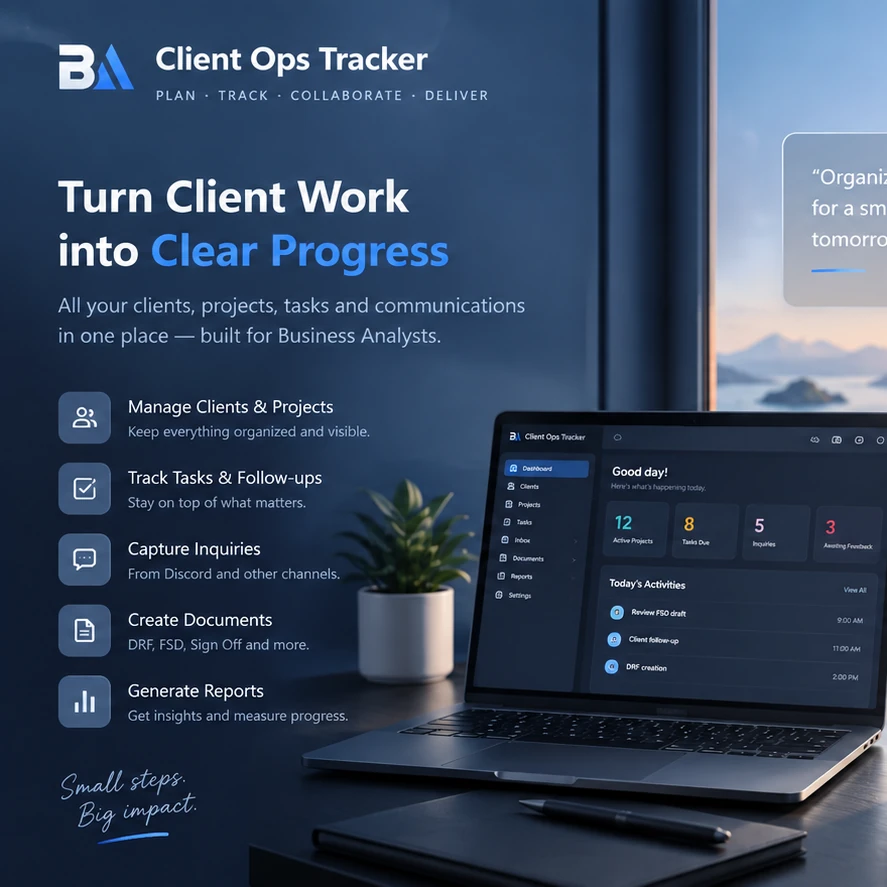
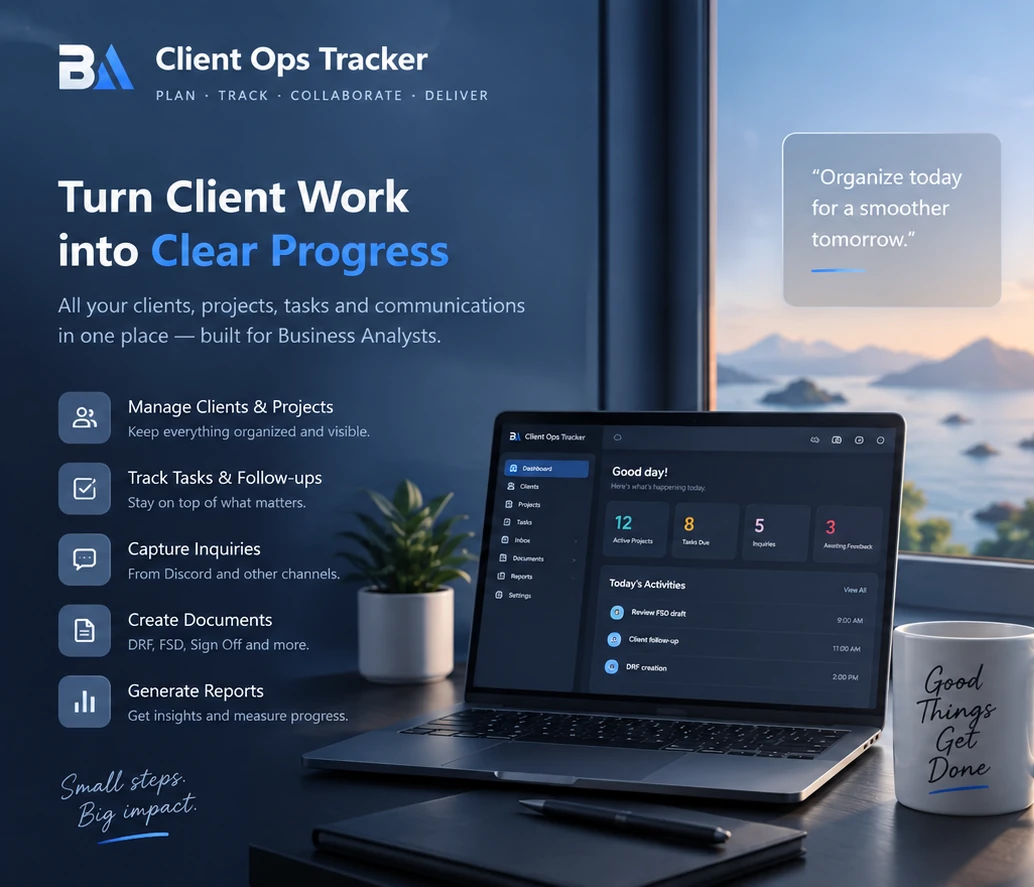
update

diff --git a/src/styles.css b/src/styles.css
@@ -1487,7 +1487,7 @@ select option { background: #181818; color: #fff; }
 .auth-shell-login {
   min-height: 100dvh;
   display: grid;
-  grid-template-columns: minmax(460px, 1.08fr) minmax(520px, .92fr);
+  grid-template-columns: 58.3% 41.7%;
   padding: 0;
   background: #f6f9ff;
   color: #12213a;
@@ -1504,7 +1504,7 @@ select option { background: #181818; color: #fff; }
   width: 100%;
   height: 100dvh;
   object-fit: cover;
-  object-position: center;
+  object-position: center center;
 }
 .auth-login-panel {
   position: relative;
@@ -1514,15 +1514,15 @@ select option { background: #181818; color: #fff; }
   flex-direction: column;
   align-items: center;
   justify-content: center;
-  padding: 54px clamp(32px, 5vw, 84px) 30px;
+  padding: 54px 48px 28px;
   background:
-    radial-gradient(circle at 78% 16%, rgba(96,165,250,.13), transparent 31%),
-    radial-gradient(circle at 16% 82%, rgba(147,197,253,.12), transparent 30%),
+    radial-gradient(circle at 76% 17%, rgba(96,165,250,.13), transparent 31%),
+    radial-gradient(circle at 20% 82%, rgba(147,197,253,.12), transparent 30%),
     linear-gradient(145deg, #fbfdff 0%, #f3f7fd 58%, #edf4fd 100%);
 }
 .auth-version {
   position: absolute;
-  top: 28px;
+  top: 27px;
   right: 38px;
   color: #8090ab;
   font-size: 11px;
@@ -1530,38 +1530,42 @@ select option { background: #181818; color: #fff; }
   letter-spacing: .03em;
 }
 .auth-card-modern {
-  width: min(540px, 100%);
-  padding: 34px 36px 30px;
+  width: min(570px, 100%);
+  padding: 31px 34px 30px;
   border: 1px solid rgba(148,163,184,.34);
   border-radius: 24px;
-  background: rgba(255,255,255,.90);
+  background: rgba(255,255,255,.92);
   color: #12213a;
   box-shadow: 0 28px 80px rgba(46,79,125,.13), 0 3px 12px rgba(46,79,125,.07);
   backdrop-filter: blur(18px) saturate(122%);
 }
 .auth-brand-modern {
+  display: flex;
+  flex-direction: column;
+  align-items: center;
   justify-content: center;
-  gap: 13px;
-  margin: 0 0 30px;
-  text-align: left;
+  gap: 11px;
+  margin: 0 0 27px;
+  text-align: center;
 }
 .auth-brand-modern .auth-app-icon {
-  width: 58px;
-  height: 58px;
+  width: 66px;
+  height: 66px;
   flex: 0 0 auto;
   object-fit: contain;
-  border-radius: 14px;
+  border-radius: 16px;
   box-shadow: 0 8px 22px rgba(24,73,135,.18);
 }
+.auth-brand-copy { display: grid; justify-items: center; gap: 3px; }
 .auth-brand-modern strong {
   color: #101d34;
-  font-size: 22px;
+  font-size: 24px;
   letter-spacing: -.025em;
+  line-height: 1.12;
 }
 .auth-brand-modern span {
-  margin-top: 3px;
   color: #6d7f9d;
-  font-size: 12px;
+  font-size: 13px;
 }
 .auth-form-modern { gap: 16px; }
 .auth-form-modern > label {
@@ -1570,7 +1574,7 @@ select option { background: #181818; color: #fff; }
   font-size: 11.5px;
 }
 .auth-input-shell {
-  min-height: 52px;
+  min-height: 54px;
   display: flex;
   align-items: center;
   gap: 11px;
@@ -1588,7 +1592,7 @@ select option { background: #181818; color: #fff; }
 }
 .auth-form-modern .auth-input-shell input {
   min-width: 0;
-  min-height: 50px;
+  min-height: 52px;
   flex: 1;
   padding: 0;
   border: 0;
@@ -1616,7 +1620,7 @@ select option { background: #181818; color: #fff; }
   justify-content: space-between;
   align-items: center;
   gap: 16px;
-  margin-top: -1px;
+  margin-top: 0;
 }
 .auth-remember {
   display: inline-flex !important;
@@ -1644,7 +1648,7 @@ select option { background: #181818; color: #fff; }
 .auth-inline-link:hover { color: #1357b9; text-decoration: underline; text-underline-offset: 3px; }
 .auth-submit-modern {
   width: 100%;
-  min-height: 52px;
+  min-height: 54px;
   margin-top: 3px;
   border: 0;
   border-radius: 12px;
@@ -1660,11 +1664,24 @@ select option { background: #181818; color: #fff; }
   background: #fff4f4;
   color: #b42318;
 }
+.auth-divider {
+  display: grid;
+  grid-template-columns: 1fr auto 1fr;
+  align-items: center;
+  gap: 14px;
+  margin: 21px 0 18px;
+  color: #8291aa;
+  font-size: 10px;
+  font-weight: 700;
+  letter-spacing: .04em;
+}
+.auth-divider::before,
+.auth-divider::after { content: ''; height: 1px; background: #dbe4f0; }
 .auth-security-note {
   display: flex;
   align-items: center;
   gap: 11px;
-  margin-top: 22px;
+  margin-top: 0;
   padding: 13px 15px;
   border-radius: 12px;
   background: linear-gradient(135deg, #f4f8ff, #edf4ff);
@@ -1676,7 +1693,7 @@ select option { background: #181818; color: #fff; }
 .auth-security-note strong { color: #284b7d; font-size: 11.5px; }
 .auth-security-note span { margin-top: 2px; color: #6e84a6; font-size: 10px; }
 .auth-copyright {
-  margin-top: 24px;
+  margin-top: 23px;
   color: #8493aa;
   font-size: 10.5px;
   text-align: center;
@@ -1788,9 +1805,10 @@ select option { background: #181818; color: #fff; }
 .ui-refresh .activity-tile-grid { gap: 12px; }
 .ui-refresh .activity-tile { padding: 16px; }
 
-@media (max-width: 1080px) {
-  .auth-shell-login { grid-template-columns: minmax(360px, .82fr) minmax(500px, 1.18fr); }
-  .auth-login-visual img { object-position: 54% center; }
+@media (max-width: 1100px) {
+  .auth-shell-login { grid-template-columns: 52% 48%; }
+  .auth-login-panel { padding-inline: 34px; }
+  .auth-card-modern { width: min(520px, 100%); }
   .ui-refresh.app-shell { grid-template-columns: 220px minmax(0,1fr); }
 }
 @media (max-width: 820px) {
@@ -1798,13 +1816,13 @@ select option { background: #181818; color: #fff; }
   .auth-login-visual { display: none; }
   .auth-login-panel { min-height: 100dvh; padding: 66px 20px 30px; }
   .auth-version { top: 20px; right: 22px; }
-  .auth-card-modern { padding: 28px 24px 24px; }
+  .auth-card-modern { width: min(560px, 100%); padding: 28px 24px 24px; }
   .ui-refresh.app-shell { grid-template-columns: 1fr; }
 }
 @media (max-width: 520px) {
   .auth-card-modern { border-radius: 18px; }
-  .auth-brand-modern .auth-app-icon { width: 50px; height: 50px; }
-  .auth-brand-modern strong { font-size: 19px; }
+  .auth-brand-modern .auth-app-icon { width: 56px; height: 56px; }
+  .auth-brand-modern strong { font-size: 21px; }
   .auth-form-options { align-items: flex-start; flex-direction: column; gap: 10px; }
   .auth-inline-link { align-self: flex-end; margin-top: -32px; }
 }

diff --git a/src/App.tsx b/src/App.tsx
@@ -1261,7 +1261,7 @@ function LoginScreen({ busy, error, onLogin }: { busy: boolean; error: string; o
       <div className="auth-card account-login-card auth-card-modern">
         <div className="auth-brand auth-brand-modern">
           <img className="auth-app-icon" src="/ba-app-icon.png" alt="" />
-          <div><strong>Client Ops Tracker</strong><span>Sign in to your workspace</span></div>
+          <div className="auth-brand-copy"><strong>Client Ops Tracker</strong><span>Sign in to your workspace</span></div>
         </div>
         <form className="auth-form auth-form-modern" onSubmit={submit}>
           <label><span>Account</span><div className="auth-input-shell"><Building2 size={18} /><input name="account" value={account} onChange={(event) => setAccount(event.target.value)} autoComplete="organization" placeholder="BXI-Core or customer account" required /></div></label>
@@ -1271,6 +1271,7 @@ function LoginScreen({ busy, error, onLogin }: { busy: boolean; error: string; o
           {error && <div className="auth-error" role="alert">{error}</div>}
           <button className="primary auth-submit auth-submit-modern" disabled={busy}>{busy ? 'Signing in…' : <><span>Sign in</span><ArrowRight size={18} /></>}</button>
         </form>
+        <div className="auth-divider" aria-hidden="true"><span>OR</span></div>
         <div className="auth-security-note"><ShieldCheck size={21} /><div><strong>Secure. Simple. Productive.</strong><span>Your client operations, always within reach.</span></div></div>
       </div>
       <div className="auth-copyright">© 2026 Client Ops Tracker. All rights reserved.</div>

diff --git a/src/version.ts b/src/version.ts
@@ -1,1 +1,1 @@
-export const APP_VERSION = '0.6.16'
+export const APP_VERSION = '0.6.17'

diff --git a/UPGRADE-v0.6.17.md b/UPGRADE-v0.6.17.md
@@ -1,0 +1,28 @@
+# Upgrade to v0.6.17 — Login Design Fidelity Fix
+
+## Why this update exists
+The first v0.6.16 implementation used an incorrectly cropped hero image and a login-card composition that was smaller and structurally different from the approved mockup. v0.6.17 corrects those visual mismatches without changing authentication logic or the application's theme system.
+
+## What changed
+- Corrects the desktop split to approximately **58% visual / 42% login** to match the approved reference.
+- Rebuilds the hero asset from the complete intended visual side instead of the earlier half-image crop.
+- Enlarges and rebalances the login card on desktop.
+- Centers and stacks the app icon, product title, and workspace subtitle as shown in the reference.
+- Restores the visual **OR** separator between Sign in and the security callout.
+- Refines card spacing, field height, version placement, copyright spacing, and responsive behavior.
+- Keeps Account, User, Password, Remember me, password visibility, Forgot Password, and authentication behavior unchanged.
+
+## Themes
+No theme definitions, theme images, theme preferences, or in-app theme behavior are changed by this patch.
+
+## Database / configuration
+- No Supabase migration required.
+- No new environment variables.
+- No new npm dependencies.
+
+## Suggested validation
+1. Open the login page at 100% browser zoom on a desktop display.
+2. Confirm the hero is no longer cut off before the quote/laptop area.
+3. Confirm the right-side card is larger and the logo/title/subtitle are stacked and centered.
+4. Verify Account, User, Password, Remember me, show/hide password, Forgot Password, and Sign in still work.
+5. Sign in and confirm all existing themes and application modules remain unchanged.

diff --git a/README.md b/README.md
@@ -1,6 +1,6 @@
-# Current release — v0.6.16
+# Current release — v0.6.17
 
-The Client Ops Tracker now has a refreshed SaaS interface based on the approved split-screen design: a new responsive login experience, clearer form controls, password visibility and non-password workspace remembering, plus consistent spacing/card/table polish across the application shell. Existing user-selectable themes, theme images, and theme color definitions are preserved. See [UPGRADE-v0.6.16.md](UPGRADE-v0.6.16.md) for details.
+The v0.6.17 login fidelity update corrects the deployed split-screen sign-in to match the approved reference more closely: the hero uses the full intended 58/42 composition, the login card is larger and vertically balanced, branding is centered/stacked, and the OR/security sections match the reference structure. Existing themes and all v0.6.16 application UI improvements remain unchanged.
 
 ## Previous release — v0.6.15
 
